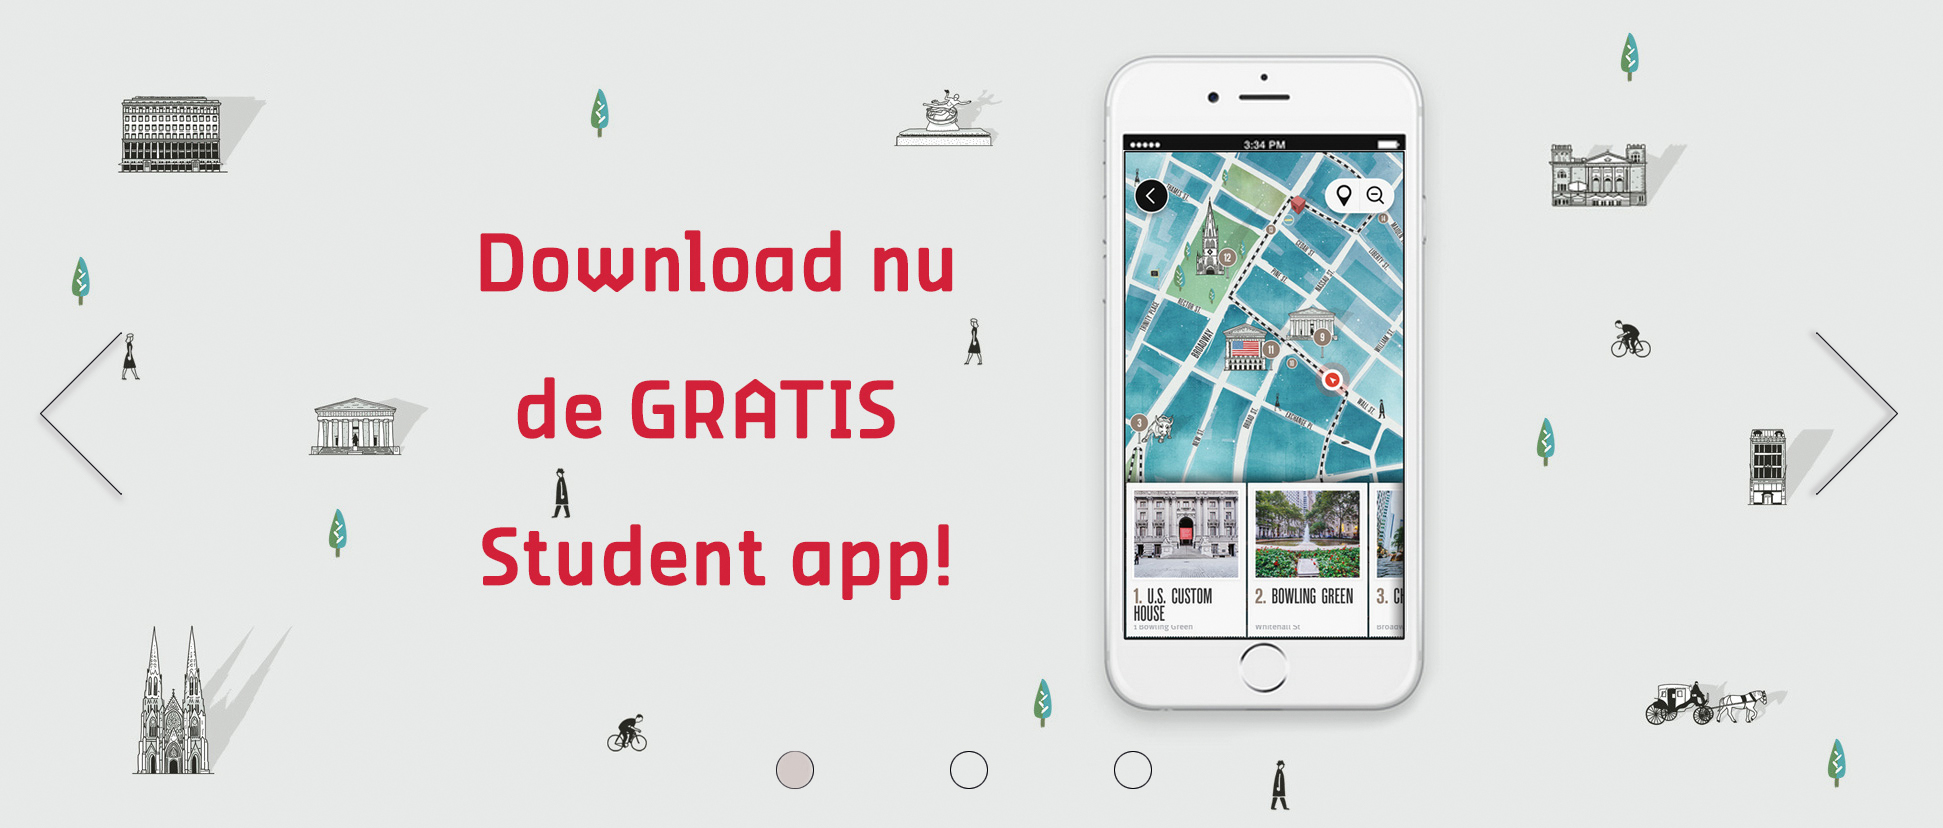
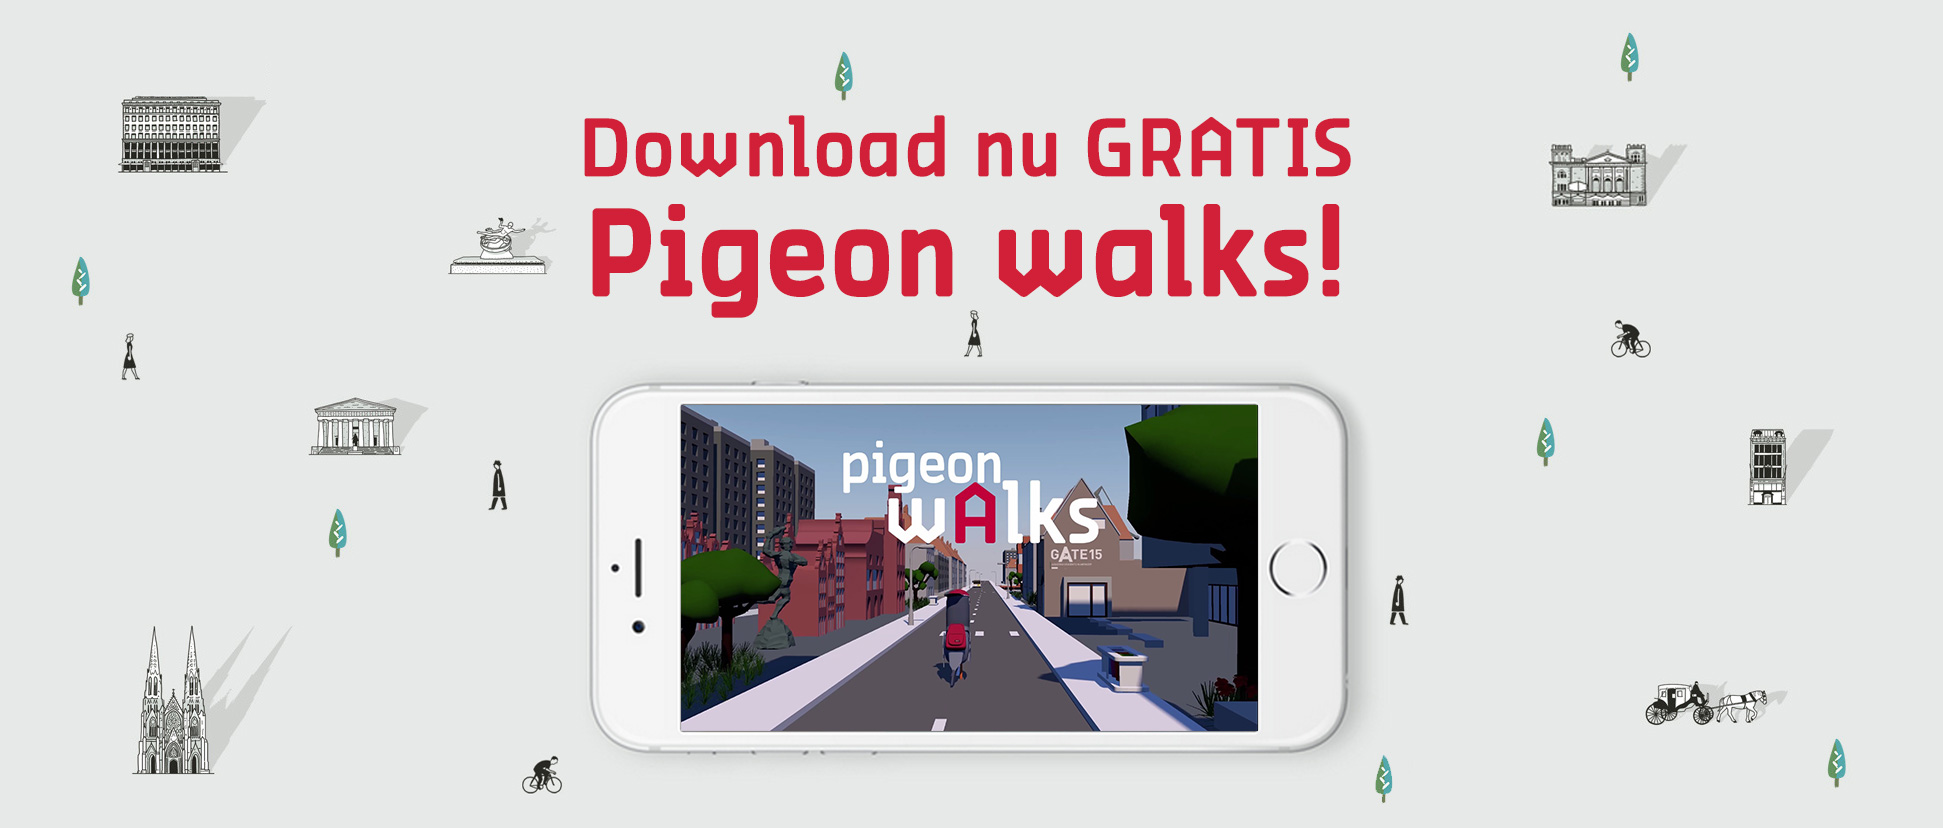
img slider hoogte weggehaald + nieuwe slide 1 app

diff --git a/TR/Website/Antwerpen/public/css/style.css b/TR/Website/Antwerpen/public/css/style.css
@@ -1682,21 +1682,21 @@ h1 {
 }
 
 @media(min-width: 1200px) {
-    img.slide_img {
+  /*  img.slide_img {
         height: 45em;
-    }
+    }*/
 }
 
 @media(max-width: 1199px) {
-    img.slide_img {
+    /*img.slide_img {
         height: 25em;
-    }
+    }*/
 }
 
 @media(max-width:420px) {
-    img.slide_img {
+  /*  img.slide_img {
         height: 11.5em;
-    }
+    }*/
 }
 
 .richtingen_class {
